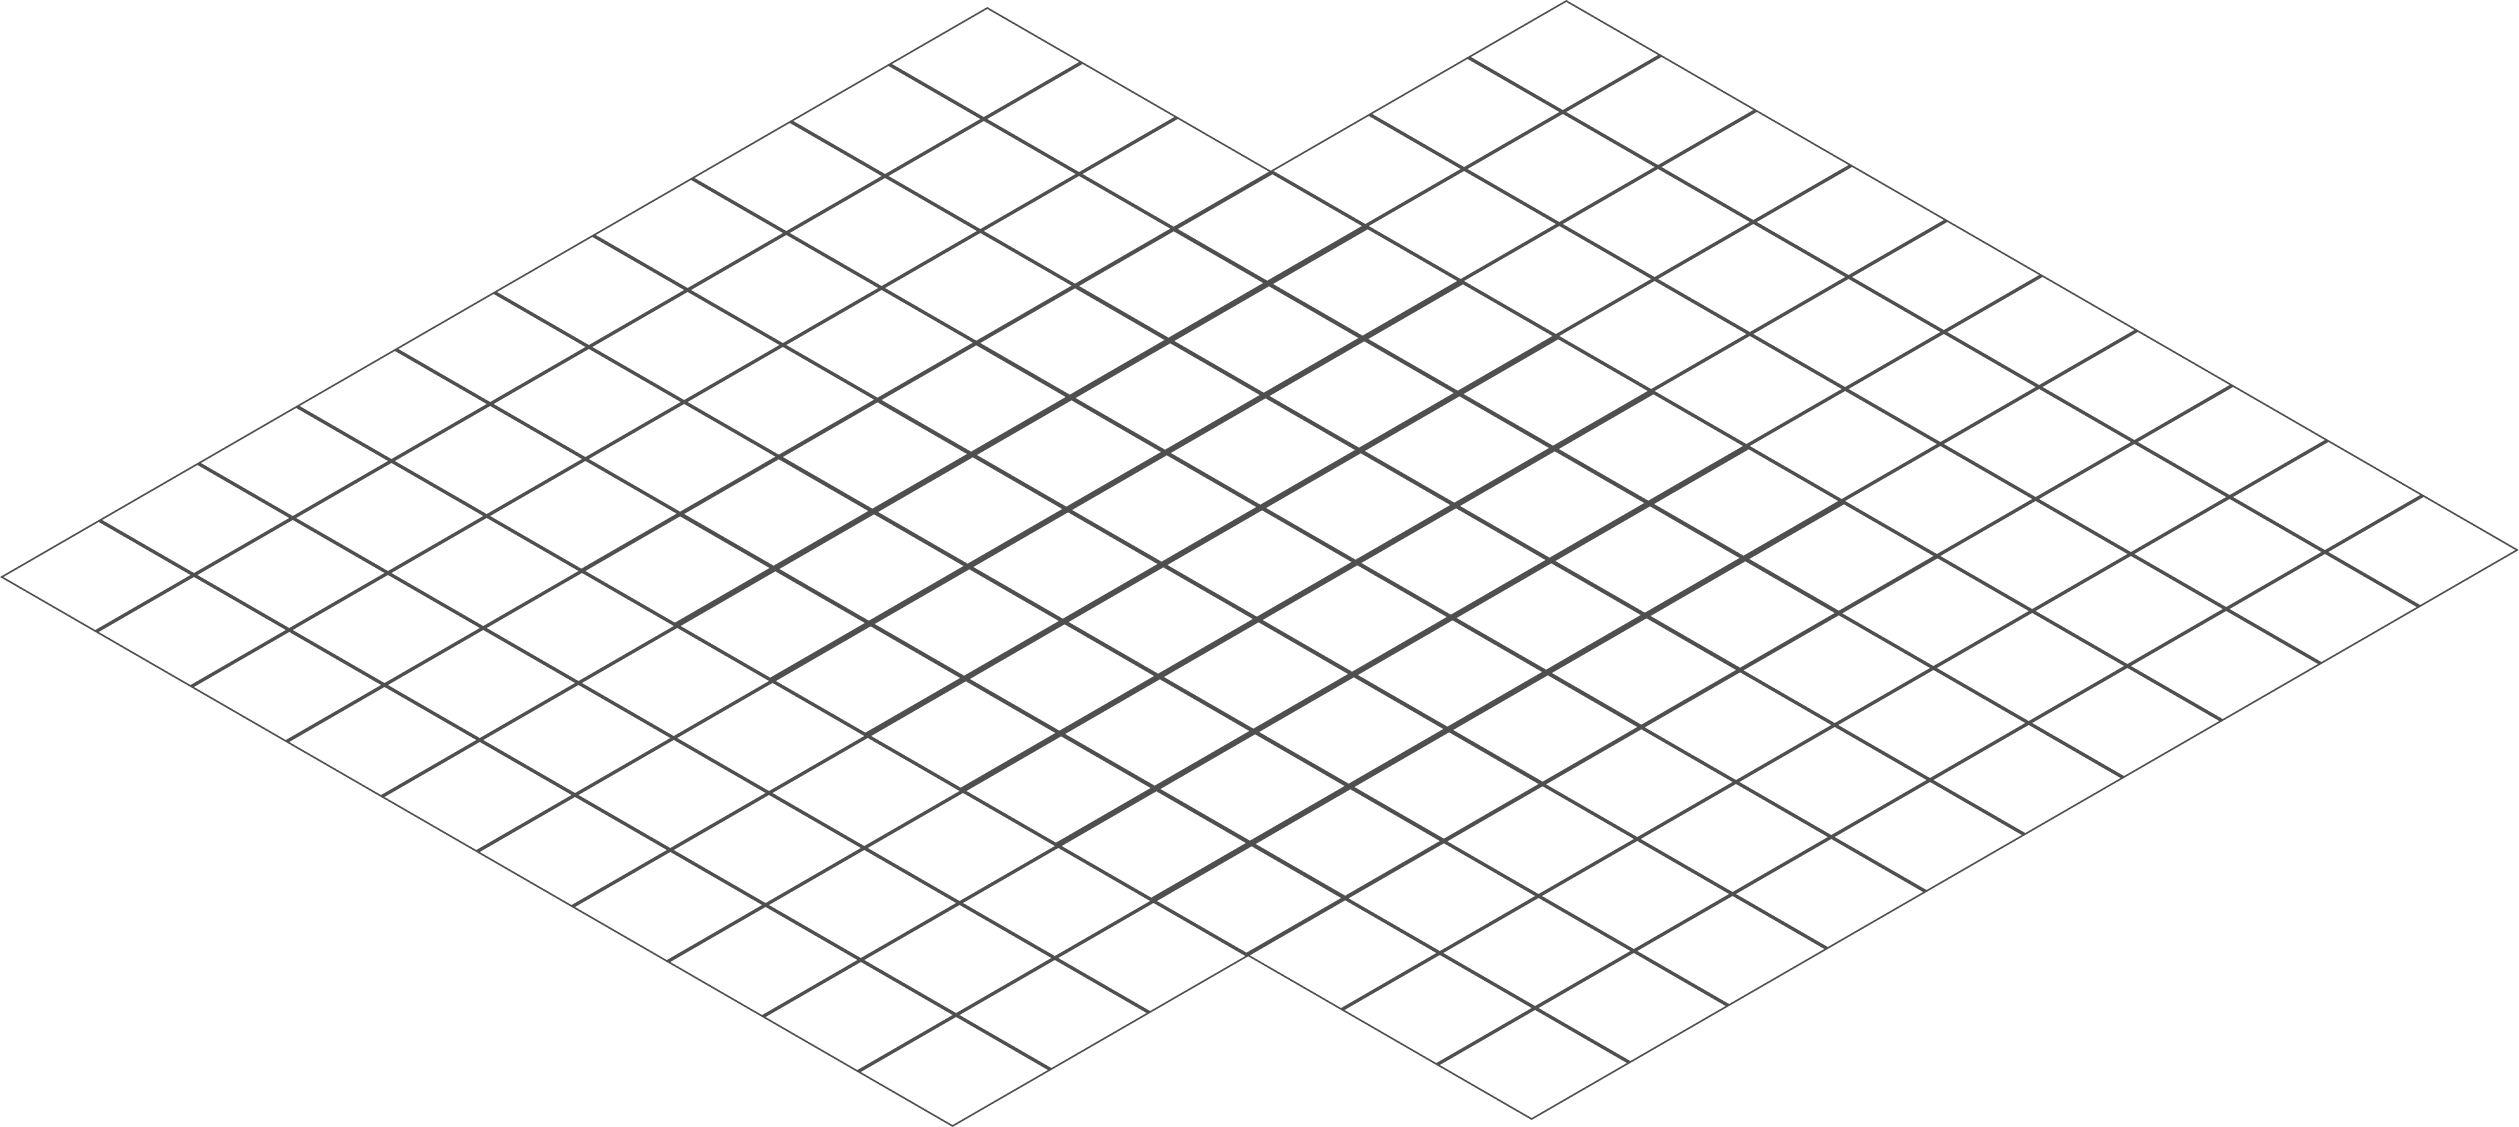
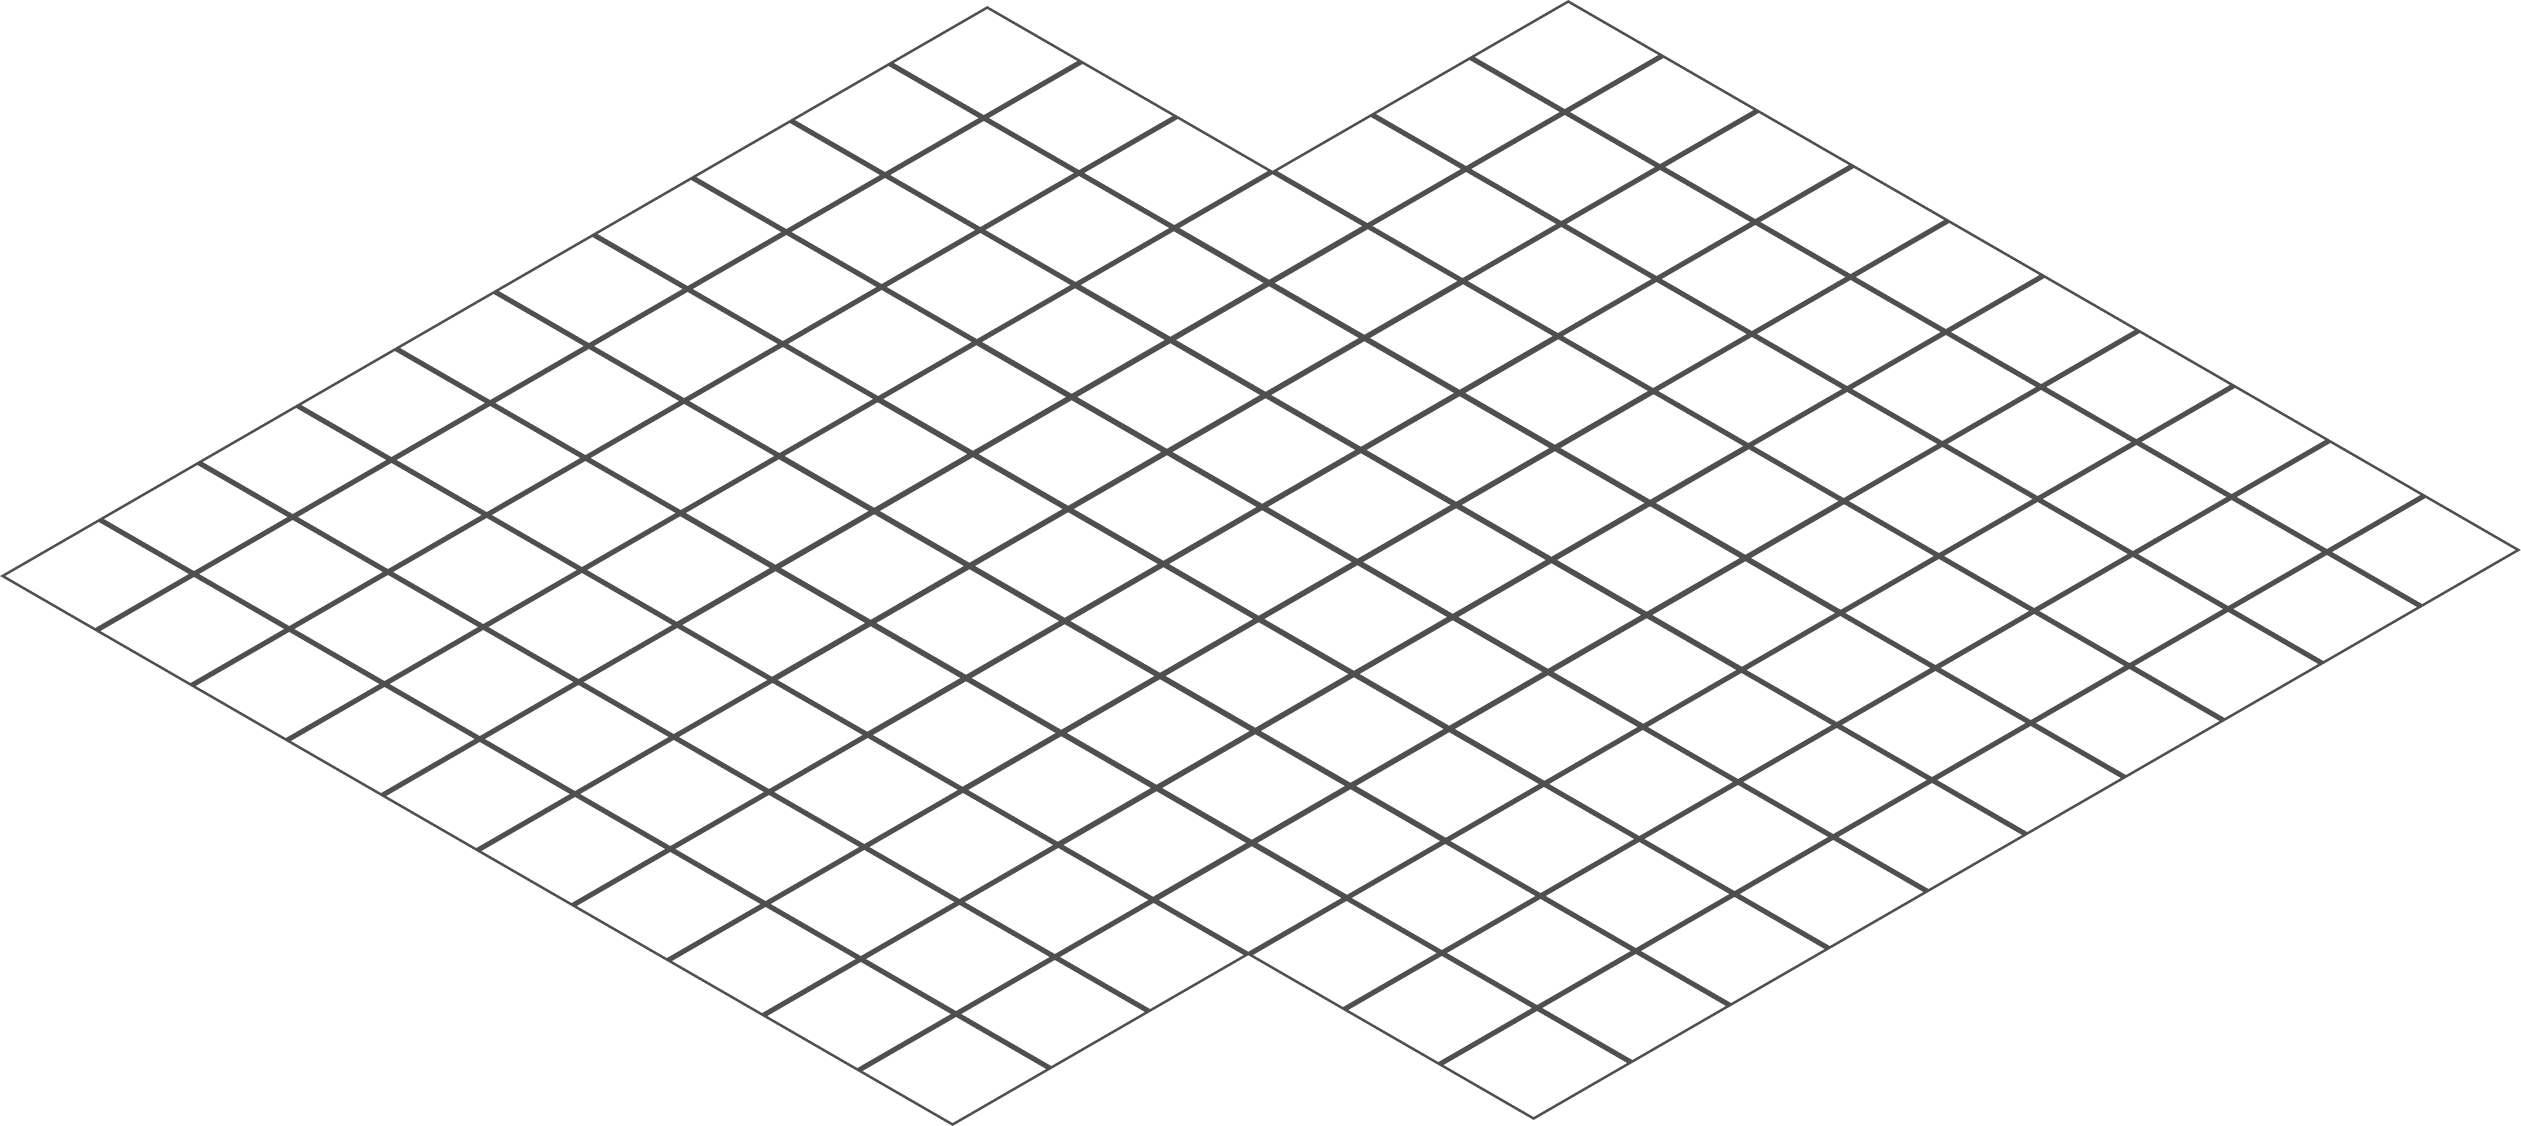
Added Text variant in button, updated variants in typography

diff --git a/src/app/page.tsx b/src/app/page.tsx
@@ -3,10 +3,63 @@ import Image from "next/image";
 
 export default function Home() {
   return (
-    <main className="">
-      <Image draggable={false} src={'/backgrounds/grid.png'} alt={'background'} fill  
-      className={'absolute w-full h-full opacity-10 select-none '}
-      />
+    <main className="relative">
+       <div
+          id={'background'}
+          className={'absolute h-[853px] w-full'}
+          >
+            <div
+            className={'relative h-full w-full'}
+            >
+               <div className={'blob h-1/2 w-1/2'} />
+              <Image draggable={false} src={'/backgrounds/grid2.webp'} alt={'background'} fill  
+              className={'absolute w-full opacity-70 select-none'}
+              />
+            </div>
+           
+          </div>
+      <div
+      id={'main'}
+      className={'pt-42'}
+      >
+
+      
+        <div
+        className={'relative pt-44 h-[853px] flex items-center justify-center text-white'}
+        >
+          <div
+          className={'flex flex-col space-y-4 max-w-4xl'}
+          >
+            <Typography variant={'subtitle'}
+            className={'text-lg'}
+            >
+              API Testing Made Easy
+            </Typography>
+            <Typography variant={'landing'}>
+              Unmatched scale
+              and performance
+            </Typography>
+            <Typography variant={'p-large'}
+            className={'text-secondary-500'}
+            >
+              We provide a simple and easy to use API testing tool that allows you to test your APIs with ease. We offer a wide range of features that allow you to test your APIs with ease.
+            </Typography>
+          </div>
+
+          <div
+          className={'w-full h-full flex items-center justify-center max-w-lg'}
+          >
+            <Image draggable={false} src={'/illustrations/undraw_code_inspection.svg'} alt={'code review'}
+            height={500}
+            width={500}
+            className={'w-full h-full object-contain select-none'}
+            />
+          </div>
+          
+          
+        </div>
+      </div>
+      
     </main>
   );
 }

diff --git a/src/components/layout/navbar/index.tsx b/src/components/layout/navbar/index.tsx
@@ -2,6 +2,12 @@ import { Button, Divider } from "@/components";
 import Typography from "@/components/typography";
 import Image from "next/image";
 
+const navItems = [
+    'Home',
+    'About',
+    'Features',
+    'Pricing',
+]
 export default function Navbar ()
 {
     return (
@@ -14,18 +20,15 @@ export default function Navbar ()
 
                 <nav>
                     <ul className="flex items-center space-x-4 font-semibold text-neutral-400">
-                        <li>
-                            <Typography variant={'p-small'}>Home</Typography>
-                        </li>
-                        <li>
-                            <Typography variant={'p-small'}>About</Typography>
-                        </li>
-                        <li>
-                            <Typography variant={'p-small'}>Features</Typography>
-                        </li>
-                        <li>
-                            <Typography variant={'p-small'}>Pricing</Typography>
-                        </li>
+                        {
+                            navItems.map((item, index) => {
+                                return (
+                                    <li key={index}>
+                                        <Button variant={'text'}>{item}</Button>
+                                    </li>
+                                )
+                            })
+                        }
                     </ul>
                 </nav>
             </div>

diff --git a/src/components/typography/index.tsx b/src/components/typography/index.tsx
@@ -7,17 +7,18 @@ const variants = cva(
     {
         variants: {
             variant: {
+                'landing': 'text-6xl xl:text-8xl font-semibold xl:leading-[106px] tracking-[-0.04em]',
                 'h1': 'text-4xl xl:text-5xl font-semibold leading-tight tracking-[-0.05em]',
                 'h2': 'text-4xl font-semibold leading-tight tracking-normal',
                 'h3': 'text-3xl font-semibold tracking-tight leading-normal',
                 'h4': 'text-2xl font-semibold tracking-normal leading-snug',
                 'h5': 'text-lg font-bold',
                 'h6': 'text-base font-bold',
-                'subtitle': 'text-xs font-medium tracking-widest leading-normal uppercase text-gray-400',
+                'subtitle': 'text-xs font-medium tracking-[0.15em] leading-normal uppercase text-gray-400',
                 'p': 'text-lg tracking-tight leading-normal',
                 'p-small': 'text-sm tracking-tight leading-snug',
                 'p-xsmall': 'text-xs tracking-tight leading-snug',
-                'p-large': 'text-md xl:text-xl tracking-tight leading-normal',
+                'p-large': 'font-medium text-md xl:text-xl tracking-wide xl:leading-relaxed',
                 'span': 'text-base',
             }
         },
@@ -28,6 +29,7 @@ const variants = cva(
 )
 
 const variantMapping: Record<string, React.ElementType> = {
+    landing: 'h1',
     h1: 'h1',
     h2: 'h2',
     h3: 'h3',

diff --git a/src/components/terminal-mockup/index.tsx b/src/components/terminal-mockup/index.tsx
@@ -1,0 +1,26 @@
+import { Typography } from "..";
+
+export default function TerminalMockup ()
+{
+    return (
+        <div className={'w-full h-full bg-black rounded-lg p-4'}>
+            <div className={'flex items-center justify-between'}>
+                <div className={'flex items-center space-x-2'}>
+                    <div className={'h-3 w-3 bg-red-500 rounded-full'} />
+                    <div className={'h-3 w-3 bg-yellow-500 rounded-full'} />
+                    <div className={'h-3 w-3 bg-green-500 rounded-full'} />
+                </div>
+                <div className={'flex items-center space-x-2'}>
+                    <div className={'h-3 w-3 bg-gray-500 rounded-full'} />
+                    <div className={'h-3 w-3 bg-gray-500 rounded-full'} />
+                    <div className={'h-3 w-3 bg-gray-500 rounded-full'} />
+                </div>
+            </div>
+            <div className={'flex items-center space-x-2'}>
+                <Typography variant={'p-small'}>
+                    user@host:~$
+                </Typography>
+            </div>
+        </div>
+    )
+}

diff --git a/src/components/button/index.tsx b/src/components/button/index.tsx
@@ -7,11 +7,11 @@ const variants = cva(
     {
         variants: {
             variant: {
-                'primary': 'bg-primary-500 text-primary-950 hover:bg-primary-600',
+                'primary': 'bg-primary-500 text-primary-950 hover:bg-primary-400',
                 'secondary': 'bg-neutral-200 text-neutral-800',
                 'outline': 'bg-transparent border border-neutral-500 text-neutral-500',
                 'ghost': 'bg-transparent text-neutral-400 hover:bg-neutral-800',
-                'text': 'bg-transparent text-neutral-500 hover:text-neutral-800'
+                'text': 'px-1 bg-transparent text-neutral-400 hover:text-neutral-200'
             },
 
             size: {

diff --git a/tailwind.config.ts b/tailwind.config.ts
@@ -26,6 +26,22 @@ const config: Config = {
           '900': '#2f4324',
           '950': '#16240f',
         },
+
+        secondary: {
+          DEFAULT: "#989898",
+          '50': '#ffffff',
+          '100': '#efefef',
+          '200': '#dcdcdc',
+          '300': '#bdbdbd',
+          '400': '#989898',
+          '500': '#7c7c7c',
+          '600': '#656565',
+          '700': '#525252',
+          '800': '#464646',
+          '900': '#3d3d3d',
+          '950': '#292929',
+        
+        },
       },
       backgroundImage: {
         "gradient-radial": "radial-gradient(var(--tw-gradient-stops))",

diff --git a/src/app/globals.css b/src/app/globals.css
@@ -20,3 +20,11 @@ body {
     text-wrap: balance;
   }
 }
+
+.radial-opacity {
+  background: radial-gradient(ellipse farthest-corner at 45px 45px, rgba(50, 50, 50, 0.8) 0%, rgba(80, 80, 80, 0.2) );
+}
+
+.blob {
+  background: linear-gradient(180deg,rgba(11,14,15,.82) 0%,rgba(24,31,33,0) 100%);
+}
